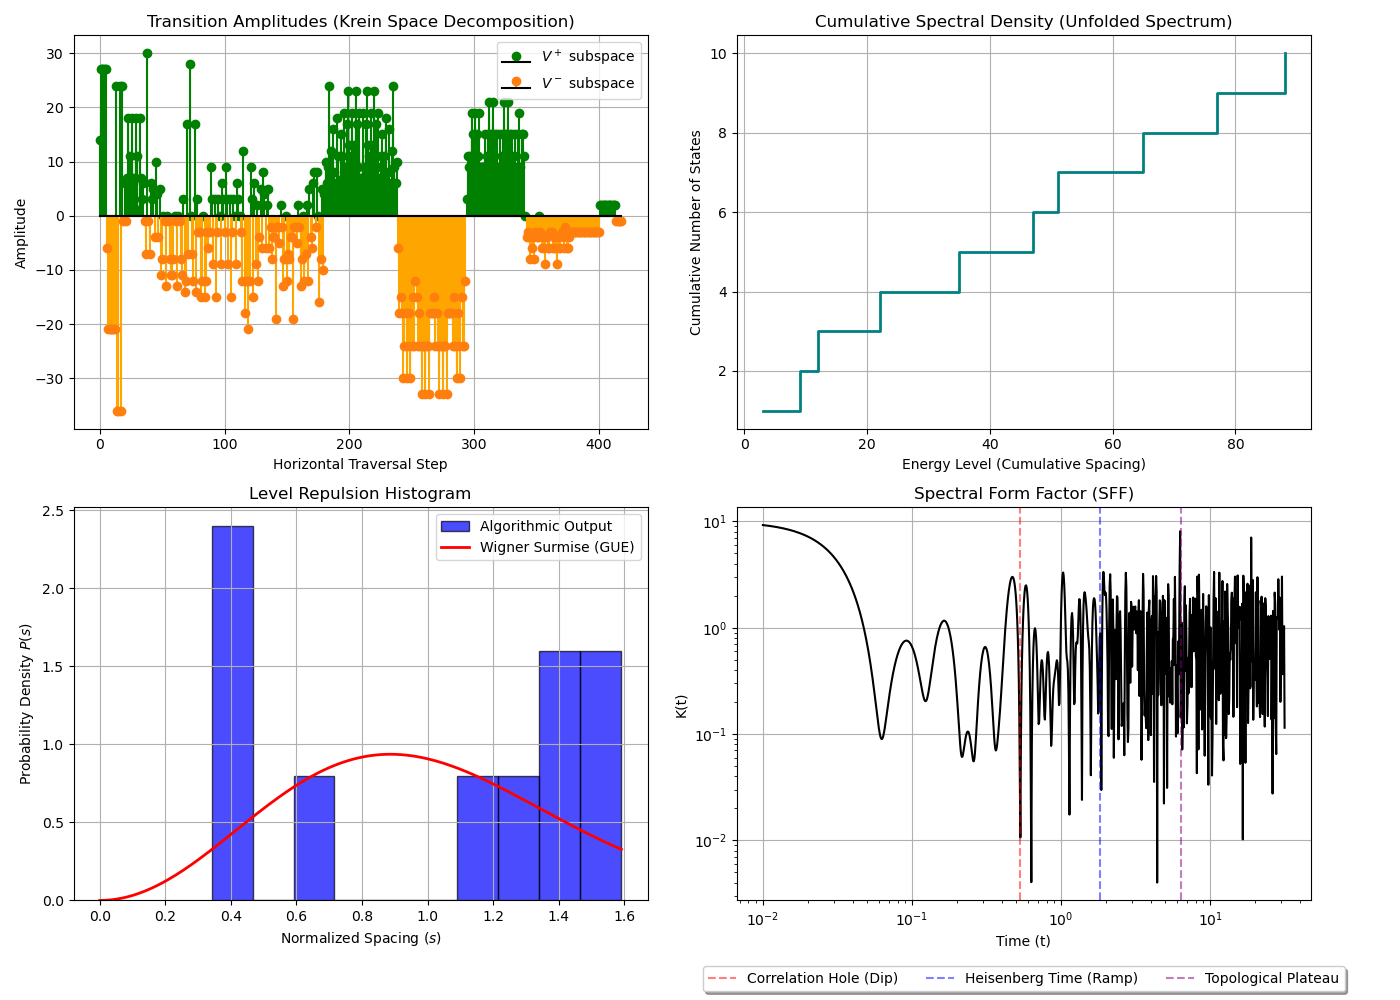
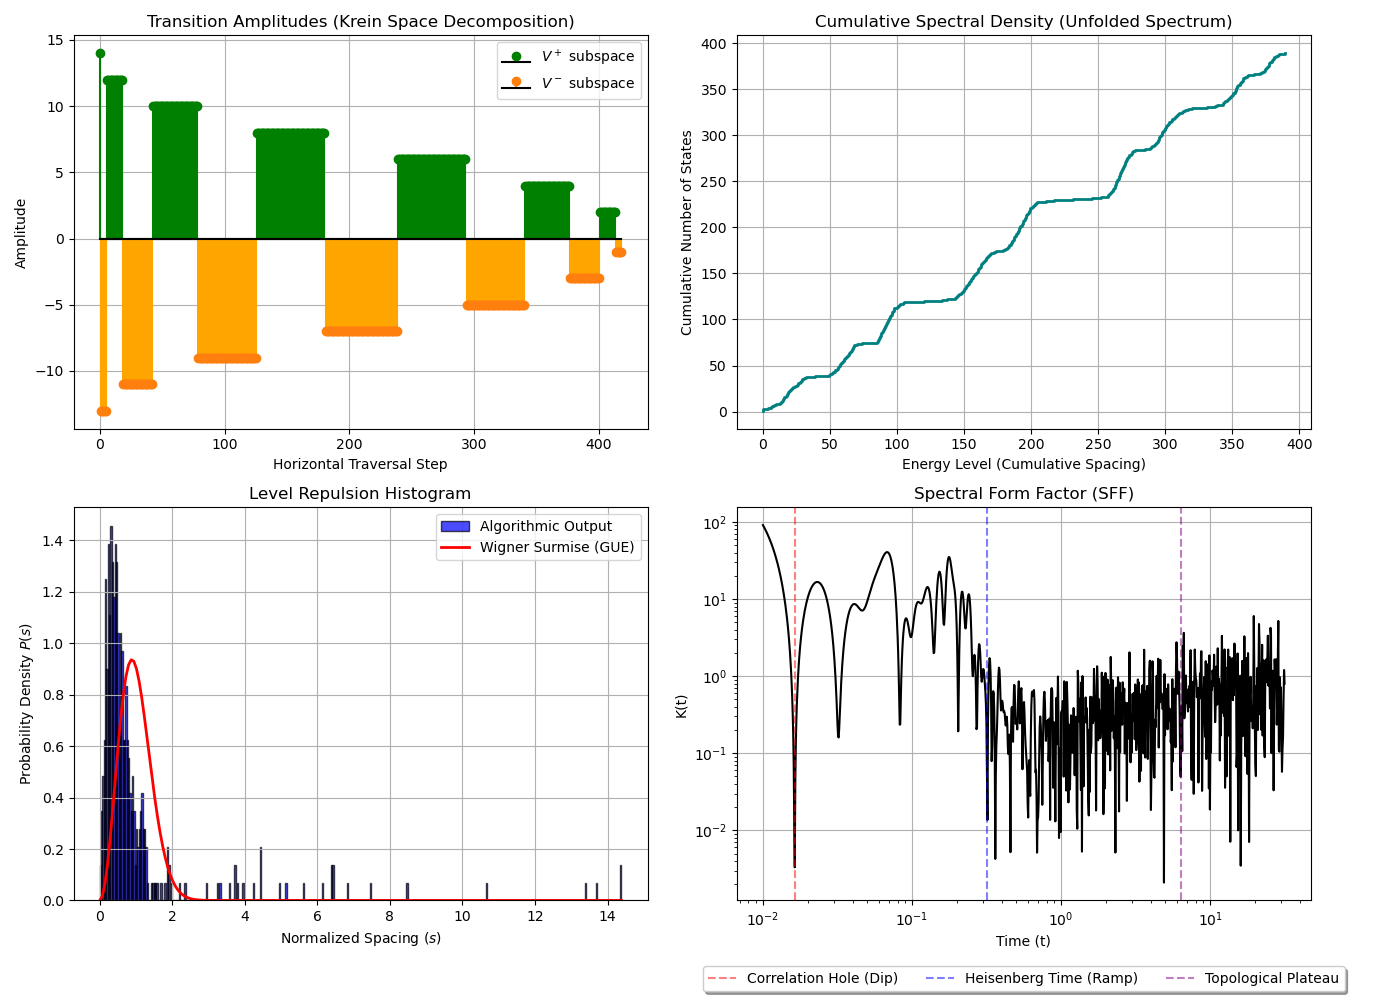
feat: align kinematic operator with continuous spectrum unfolding and metric updates

diff --git a/visualize_spectrum.py b/visualize_spectrum.py
@@ -35,8 +35,8 @@ def main():
         reader = csv.DictReader(f)
         for row in reader:
             amplitudes.append(float(row['amplitude']))
-            spacing = int(row['eigenvalue_spacing'])
-            if int(row['jammed']) == 1 and spacing > 0:
+            spacing = float(row['eigenvalue_spacing'])
+            if spacing > 0:
                 spacings.append(spacing)
 
     if not amplitudes: